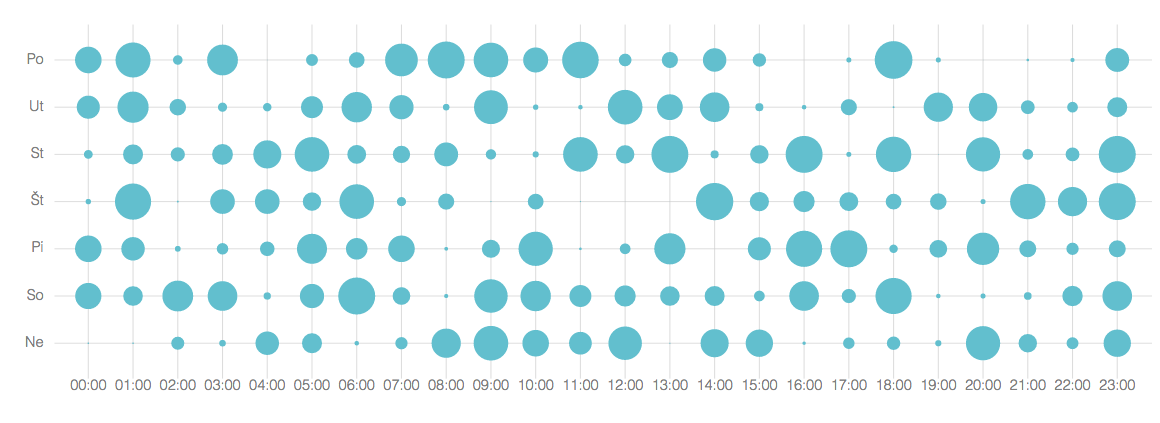
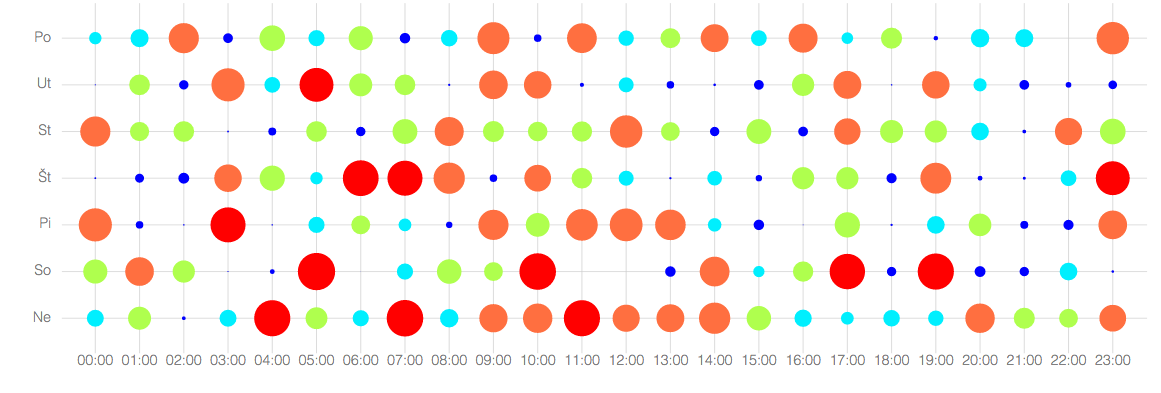
Use default heatmap color

diff --git a/src/angular-punchchart.js b/src/angular-punchchart.js
@@ -76,11 +76,39 @@ module.directive('punchChart', ['$window', function($window) {
                 valueScaleFactor = (maxValue / MAX_RADIUS) || 1;
 
                 scope.options = scope.options || {};
-                PUNCT_COLOR = scope.options.PUNCT_COLOR || '#62BFCE';
+                PUNCT_COLOR = scope.options.PUNCT_COLOR;
                 LABEL_COLOR = scope.options.LABEL_COLOR || '#7F7F7F';
                 LINE_COLOR = scope.options.LINE_COLOR || '#D0D0D0';
                 FONT_SIZE = scope.options.FONT_SIZE || 10;
                 FONT_WEIGHT = scope.options.FONT_WEIGHT || 100;
+            };
+
+            var getPunctColor = function(value){
+
+                if (PUNCT_COLOR) {
+                    return PUNCT_COLOR;
+                }
+
+                var rate = value / maxValue;
+                var color = 'blue';
+
+
+                if (rate > 0.3) {
+                    color = '#00EFFE';
+                }
+                if (rate > 0.5) {
+                    color = '#AFFF4E';
+                }
+                if (rate > 0.7) {
+                    color = '#FF6F40';
+                }
+                if (rate > 0.9) {
+                    color = 'red';
+                }
+
+                console.log(rate, color);
+
+                return color;
             };
 
             var drawLabels = function() {
@@ -140,7 +168,7 @@ module.directive('punchChart', ['$window', function($window) {
                             .attr('cy', (y + 1) * LINE_SIZE_Y + PADDING_TOP)
                             .attr('r', scope.chartData[y][x] / valueScaleFactor)
                             .attr('data', scope.chartData[y][x])
-                            .attr('fill', PUNCT_COLOR)
+                            .attr('fill', getPunctColor(scope.chartData[y][x]))
                             .on('mouseover', function(){
                                 tip.html(d3.select(this).attr('data'));
                                 tip.show();

diff --git a/index.html b/index.html
@@ -28,7 +28,7 @@
 <script src="//d3js.org/d3.v3.min.js"></script>
 <script src="http://labratrevenge.com/d3-tip/javascripts/d3.tip.v0.6.3.js"></script>
 <link rel="stylesheet" href="//rawgithub.com/Caged/d3-tip/master/examples/example-styles.css">
-<script src="angular-punchchart.min.js"></script>
+<script src="src/angular-punchchart.js"></script>
 
 <script>
     (function () {
